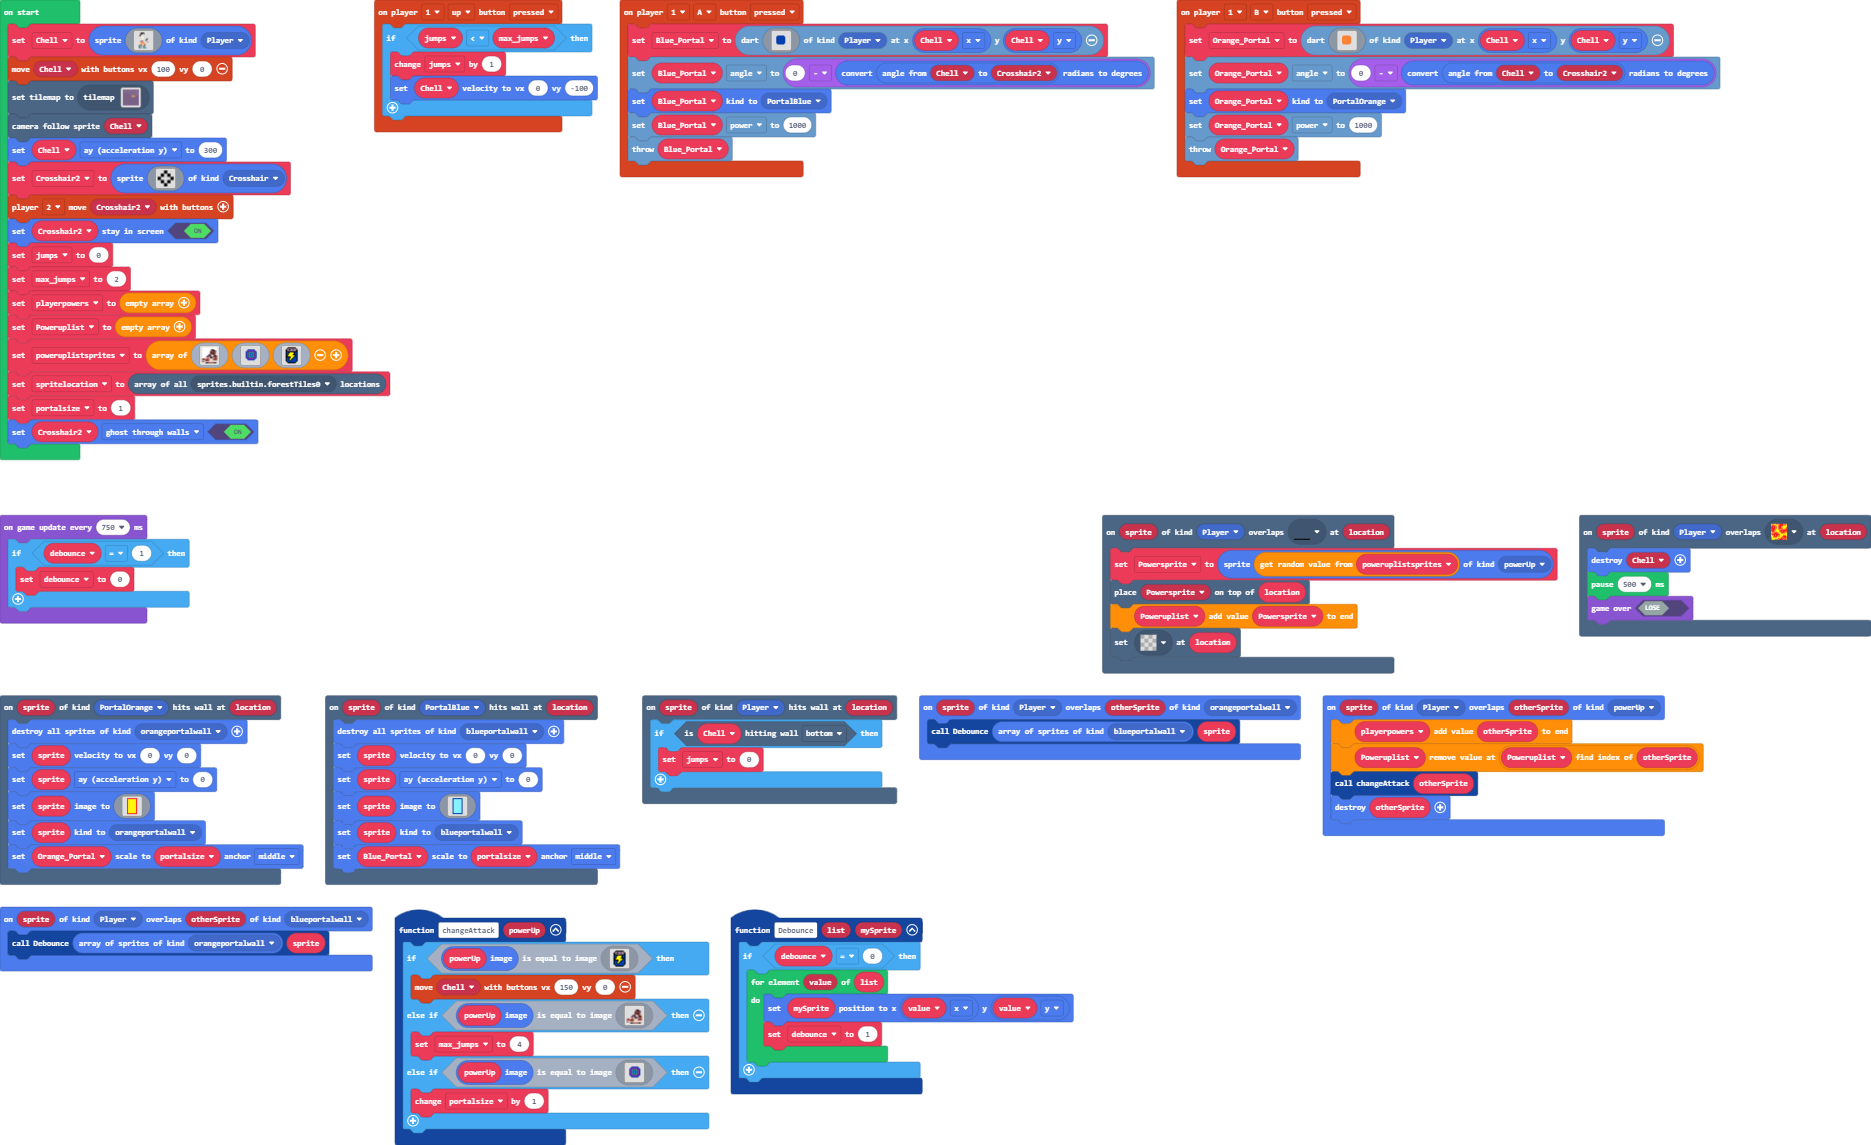
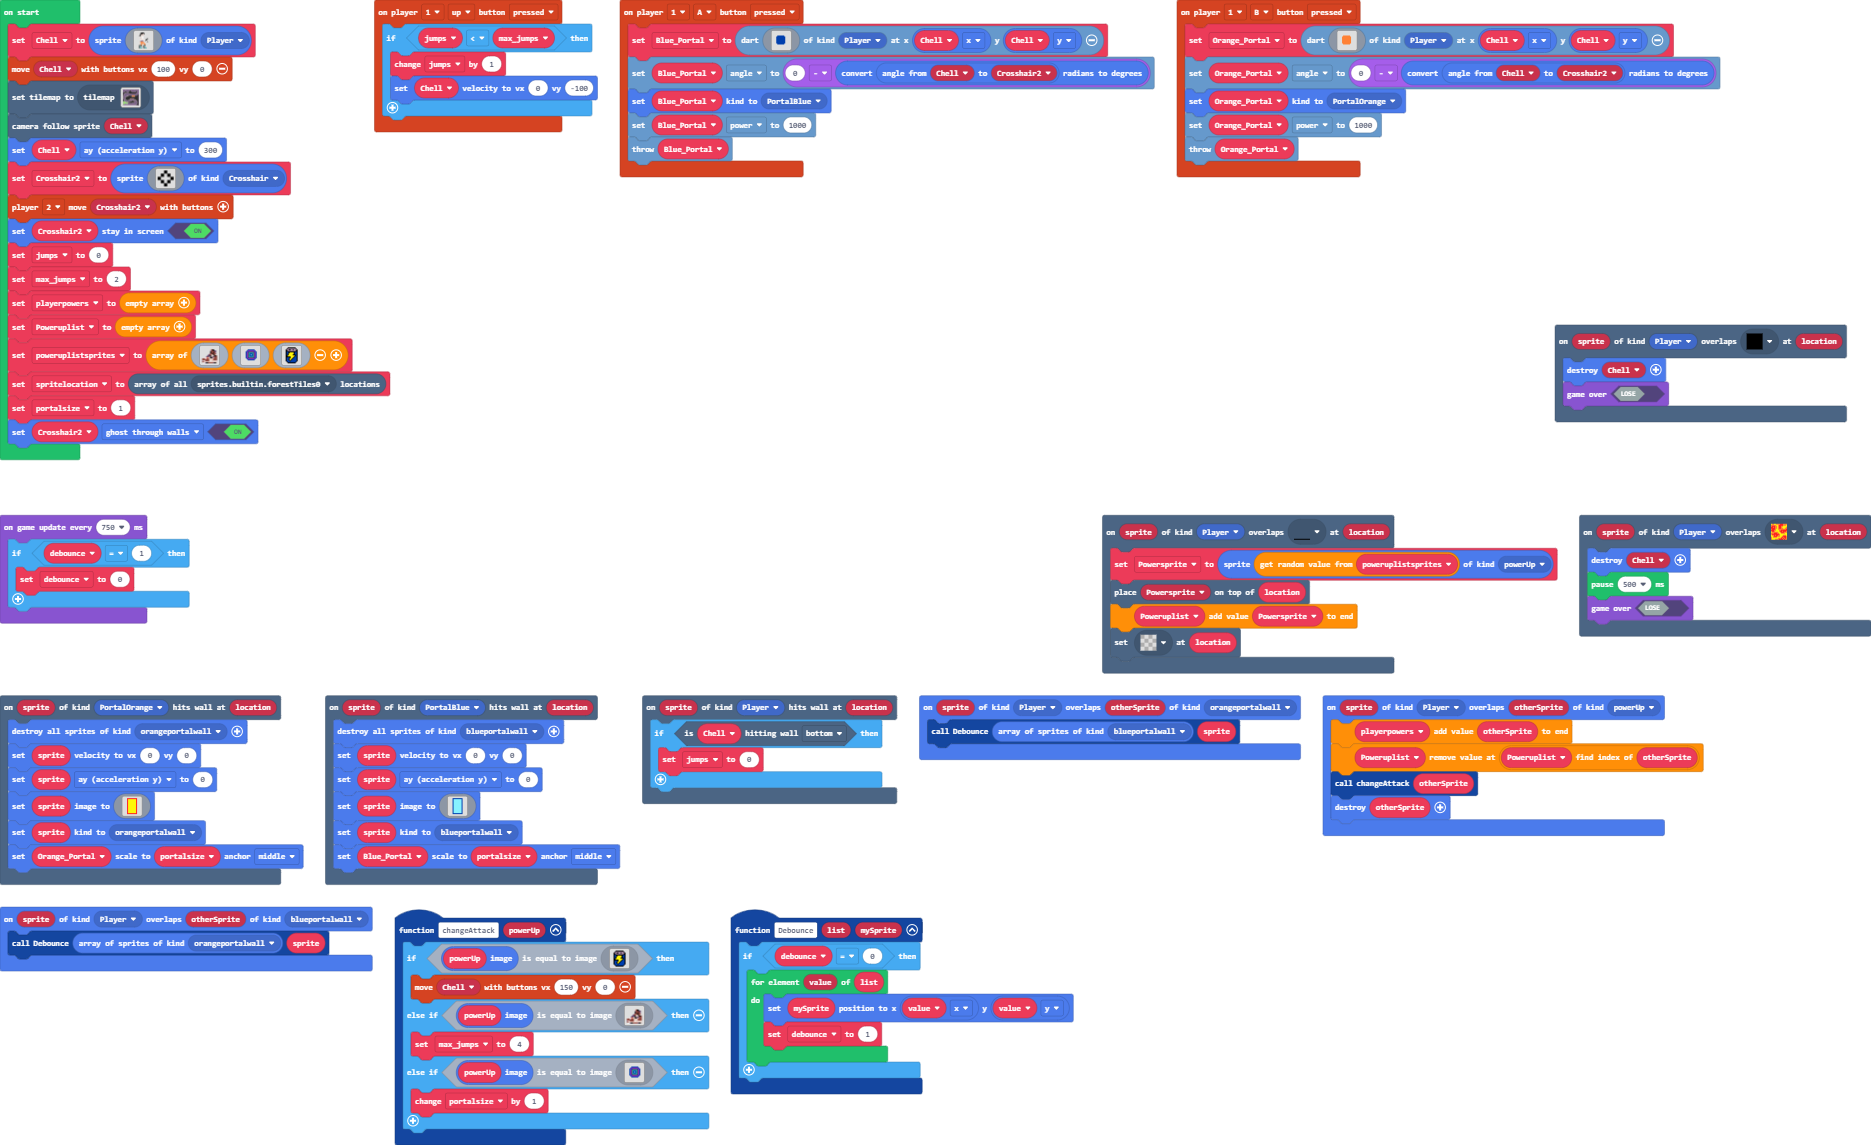
Final(please work)

Changed region(s): [[0.806, 0.2751, 0.992, 0.3668]]

diff --git a/tilemap.g.ts b/tilemap.g.ts
@@ -85,8 +85,27 @@ namespace myTiles {
 . . . . . . . . . . . . . . . . 
 . . . . . . . . . . . . . . . . 
 `, [myTiles.transparency16], TileScale.Sixteen);
+            case "level6":
+            case "level6":return tiles.createTilemap(hex`1000100000000000000000000000000000000000000000000000000000000000000000000000000000000000000000000000000000000000000000000000000000000000000000000000000000000000000000000000000000000000000000000000000000000000000000000000000000000000000000000000000000000000000000000000000000000000000000000000000000000000000000000000000000000000000000000000000000000000000000000000000000000000000000000000000000000000000000000000000000000000000000000000000000000000000000000000000000000000000000000000000000000000000000000000000000000000`, img`
+. . . . . . . . . . . . . . . . 
+. . . . . . . . . . . . . . . . 
+. . . . . . . . . . . . . . . . 
+. . . . . . . . . . . . . . . . 
+. . . . . . . . . . . . . . . . 
+. . . . . . . . . . . . . . . . 
+. . . . . . . . . . . . . . . . 
+. . . . . . . . . . . . . . . . 
+. . . . . . . . . . . . . . . . 
+. . . . . . . . . . . . . . . . 
+. . . . . . . . . . . . . . . . 
+. . . . . . . . . . . . . . . . 
+. . . . . . . . . . . . . . . . 
+. . . . . . . . . . . . . . . . 
+. . . . . . . . . . . . . . . . 
+. . . . . . . . . . . . . . . . 
+`, [myTiles.transparency16], TileScale.Sixteen);
             case "level4":
[2 lines of base64/hex data omitted]
 2222222222222222222222222222222222222222222222222222222222222222
 2..........2.................................2.................2
 2..........2.................................2.................2
@@ -100,58 +119,58 @@ namespace myTiles {
 2....222.......22......2.............2222222222222222.....2....2
 222222..........22222222.................................22....2
 2.......................................................22.....2
-2......................................................22......2
-2.....................................................22.......2
-2....................................................22........2
-2....................................................2.........2
-2..........................222222222222222222222222222........22
-2............................................................222
-2...........................................................22.2
-2..........................................................22..2
-2........................................................22....2
+2.........22...........................................22......2
+2.......222.22222222222...............................22.......2
+2......22..............222...........................22........2
+2.....2..................22..........................2.........2
+2....2.....................222222222222222222222222222........22
+2...22.......................................................222
+2...2.......................................................22.2
+2...2......................................................22..2
+2...2....................................................22....2
+2..22....................................................2.....2
+2..2...................................................22......2
+2..2................2222222222222222.............2222222.......2
+2..2..............222222...........2............22.............2
+2.22.............2222..............2............2..............2
+2.2............22222...............2............2..............2
+2.2..........2222..................2............2..............2
+2.2.........222....................22222222222222..............2
+2.2.......222..................................................2
+2.2......22....................................................2
+2.2......22....................................................2
+2.2......2.....................................................2
+2.2......2.....................................................2
+2.2......2.....................................................2
+2.2.......2....................2222222222222...................2
+2.22......22.................222...........22..................2
+2..2.......2................22...............2.................2
+2..22......22..............22.................222..............2
+2...2.......2.............22....................22.............2
+2...22.......2............2......................22............2
+2....2.......22......22222........................222..........2
+2....2........22222222...............................22........2
+2.....2.............................222222............22.......2
+2.....22..........................222....222............2......2
+2......2........................222.........22..........2......2
+2.......22....................222.............2.........2......2
+2........22.................22.................2........22.....2
+2.........22..........222222...................2.........2.....2
+2..........222222222222........................2.........2.....2
+2..................2...........................2.........2.....2
+2..................222....................222222.........2.....2
+2....................2...............22222...............2.....2
+2....................2222222222222222....................2.....2
 2........................................................2.....2
+2.......................................................22.....2
+2.......................................................2......2
 2......................................................22......2
-2.........................2222222222.............2222222.......2
-2..................................2............22.............2
-2..................................2............2..............2
-2..................................2............2..............2
-2..................................2............2..............2
-2..................................22222222222222..............2
-2..............................................................2
-2..............................................................2
-2..............................................................2
-2..............................................................2
-2..............................................................2
-2..............................................................2
-2..............................................................2
-2..............................................................2
-2..............................................................2
-2..............................................................2
-2..............................................................2
-2..............................................................2
-2..............................................................2
-2..............................................................2
-2..............................................................2
-2..............................................................2
-2..............................................................2
-2..............................................................2
-2..............................................................2
-2..............................................................2
-2..............................................................2
-2..............................................................2
-2..............................................................2
-2..............................................................2
-2..............................................................2
-2..............................................................2
-2..............................................................2
-2..............................................................2
-2..............................................................2
-2..............................................................2
-2..............................................................2
-2..............................................................2
-2..............................................................2
+2......................................................2.......2
+2.....................................................22.......2
+2......................22.........................22222........2
+2.......................222222222222222222222222222............2
 2222222222222222222222222222222222222222222222222222222222222222
-`, [myTiles.transparency16,sprites.dungeon.floorDark1,sprites.dungeon.hazardLava1,sprites.dungeon.darkGroundCenter,sprites.dungeon.purpleOuterNorthWest,sprites.dungeon.purpleOuterNorth1,sprites.dungeon.purpleOuterWest0,sprites.dungeon.purpleOuterEast0,sprites.dungeon.purpleOuterSouth1,sprites.dungeon.purpleOuterSouthWest,sprites.dungeon.purpleOuterSouthEast,sprites.dungeon.purpleOuterNorthEast,sprites.dungeon.darkGroundNorthWest1], TileScale.Sixteen);
+`, [myTiles.transparency16,sprites.dungeon.floorDark1,sprites.dungeon.hazardLava1,sprites.dungeon.darkGroundCenter,sprites.dungeon.purpleOuterNorthWest,sprites.dungeon.purpleOuterNorth1,sprites.dungeon.purpleOuterWest0,sprites.dungeon.purpleOuterEast0,sprites.dungeon.purpleOuterSouth1,sprites.dungeon.purpleOuterSouthWest,sprites.dungeon.purpleOuterSouthEast,sprites.dungeon.purpleOuterNorthEast,sprites.dungeon.darkGroundNorthWest1,myTiles.tile2,sprites.dungeon.floorLightMoss,sprites.castle.tilePath1,sprites.castle.tilePath6,sprites.castle.tilePath4,sprites.castle.tilePath2,sprites.castle.tileGrass1,sprites.castle.tileGrass2,sprites.dungeon.collectibleBlueCrystal,sprites.dungeon.floorLight1,sprites.builtin.coral1,sprites.builtin.forestTiles10,sprites.dungeon.hazardLava0], TileScale.Sixteen);
         }
         return null;
     })

diff --git a/main.ts b/main.ts
@@ -105,6 +105,10 @@ function Debounce (list: Sprite[], mySprite: Sprite) {
         }
     }
 }
+scene.onOverlapTile(SpriteKind.Player, sprites.builtin.forestTiles10, function (sprite, location) {
+    sprites.destroy(Chell)
+    game.gameOver(false)
+})
 scene.onOverlapTile(SpriteKind.Player, assets.tile`pressureplate`, function (sprite, location) {
     Powersprite = sprites.create(poweruplistsprites._pickRandom(), SpriteKind.powerUp)
     tiles.placeOnTile(Powersprite, location)
@@ -203,24 +207,7 @@ jumps = 0
 max_jumps = 2
 playerpowers = []
 Poweruplist = []
-poweruplistsprites = [img`
-    1 1 1 1 1 1 1 1 1 1 1 1 1 1 1 
-    1 1 1 1 1 1 1 1 1 d 1 1 1 1 1 
-    1 1 1 1 1 1 1 1 d e f f 1 1 1 
-    1 1 1 1 1 1 1 1 b e e f c c 1 
-    1 1 1 1 1 1 1 1 f e e e e c 1 
-    1 1 1 1 1 1 1 1 f e e f e b 1 
-    1 1 1 1 1 1 1 b e e f e e e 1 
-    1 1 1 1 1 1 c e e d d f e d 1 
-    1 1 1 1 1 c c c f d d d f f e 
-    1 1 1 1 c e c d f d c c e e e 
-    1 1 d 1 3 4 d d f f b d e e e 
-    e e e 1 e e e d d d d e e e e 
-    e e e e e e e d d d d e e e e 
-    b d 1 e e e e d 1 d d d d d d 
-    e e d d d d d d d d d d d d d 
-    1 1 1 c f f e e e e e c f f d 
-    `, assets.image`Portal amp`, assets.image`energy drink`]
+poweruplistsprites = [assets.image`jordan`, assets.image`Portal amp`, assets.image`energy drink`]
 let spritelocation = tiles.getTilesByType(sprites.builtin.forestTiles0)
 portalsize = 1
 Crosshair2.setFlag(SpriteFlag.GhostThroughWalls, true)

diff --git a/images.g.ts b/images.g.ts
@@ -91,6 +91,25 @@ f.666...f.666...
 . . . f 8 8 8 8 8 8 8 8 f . . . 
 . . . . f f f f f f f f . . . . 
 `;
+            case "image5":
+            case "jordan":return img`
+. . . . . . . . . . . . . . . 
+. . . . . . . . . d . . . . . 
+. . . . . . . . d e f f . . . 
+. . . . . . . . b e e f c c . 
+. . . . . . . . f e e e e c . 
+. . . . . . . . f e e f e b . 
+. . . . . . . b e e f e e e . 
+. . . . . . c e e d d f e d . 
+. . . . . c c c f d d d f f e 
+. . . . c e c d f d c c e e e 
+. . d 1 3 4 d d f f b d e e e 
+e e e 1 e e e d d d d e e e e 
+e e e e e e e d d d d e e e e 
+b d 1 e e e e d 1 d d d d d d 
+e e d d d d d d d d d d d d d 
+. 1 1 c f f e e e e e c f f d 
+`;
         }
         return null;
     })
